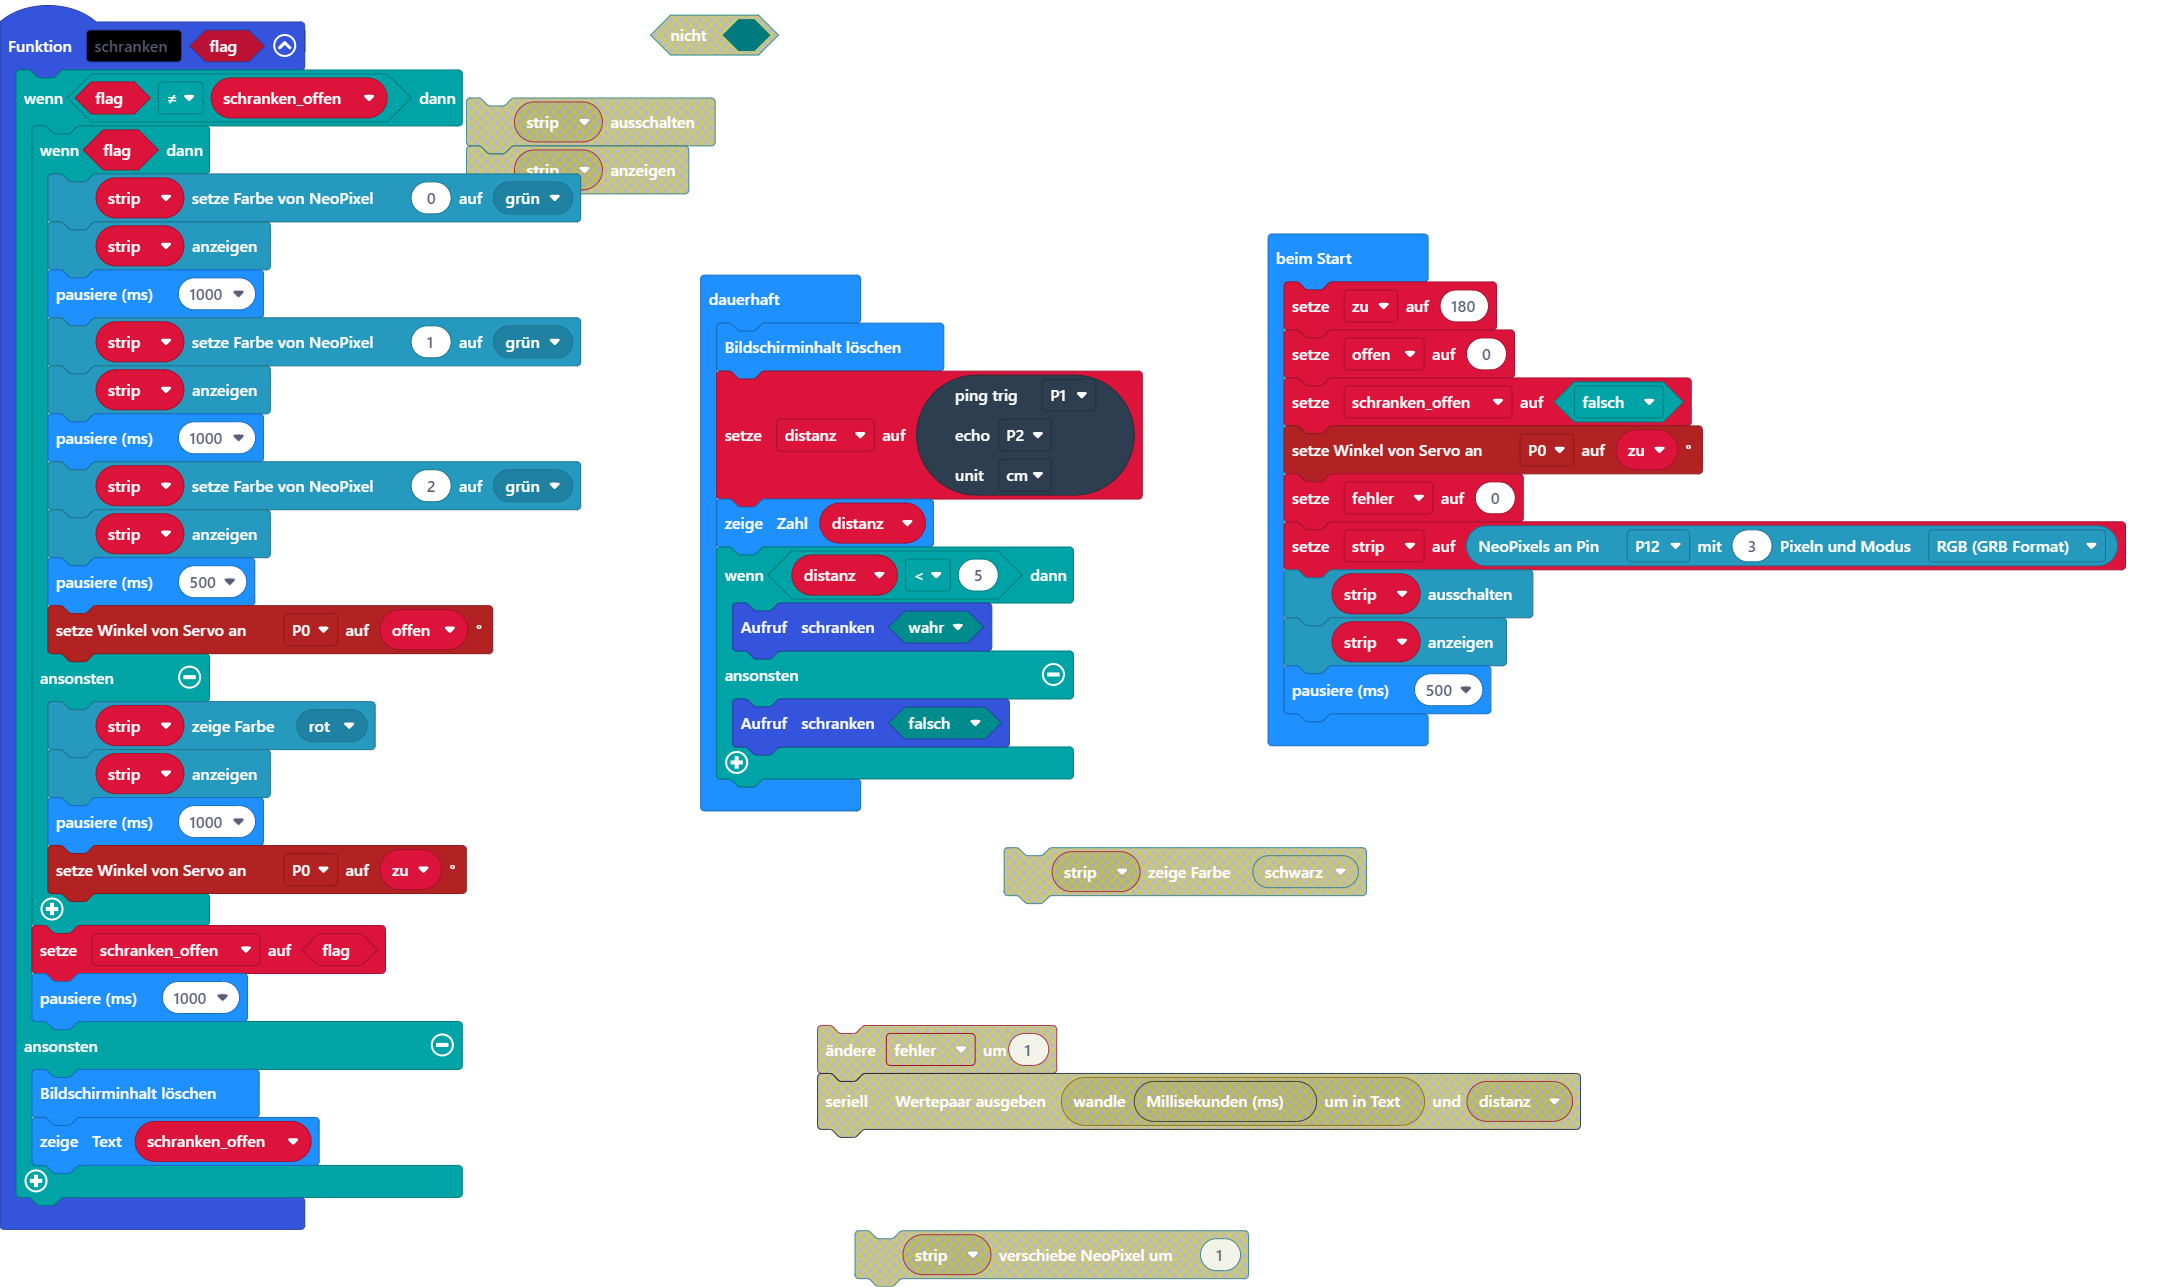
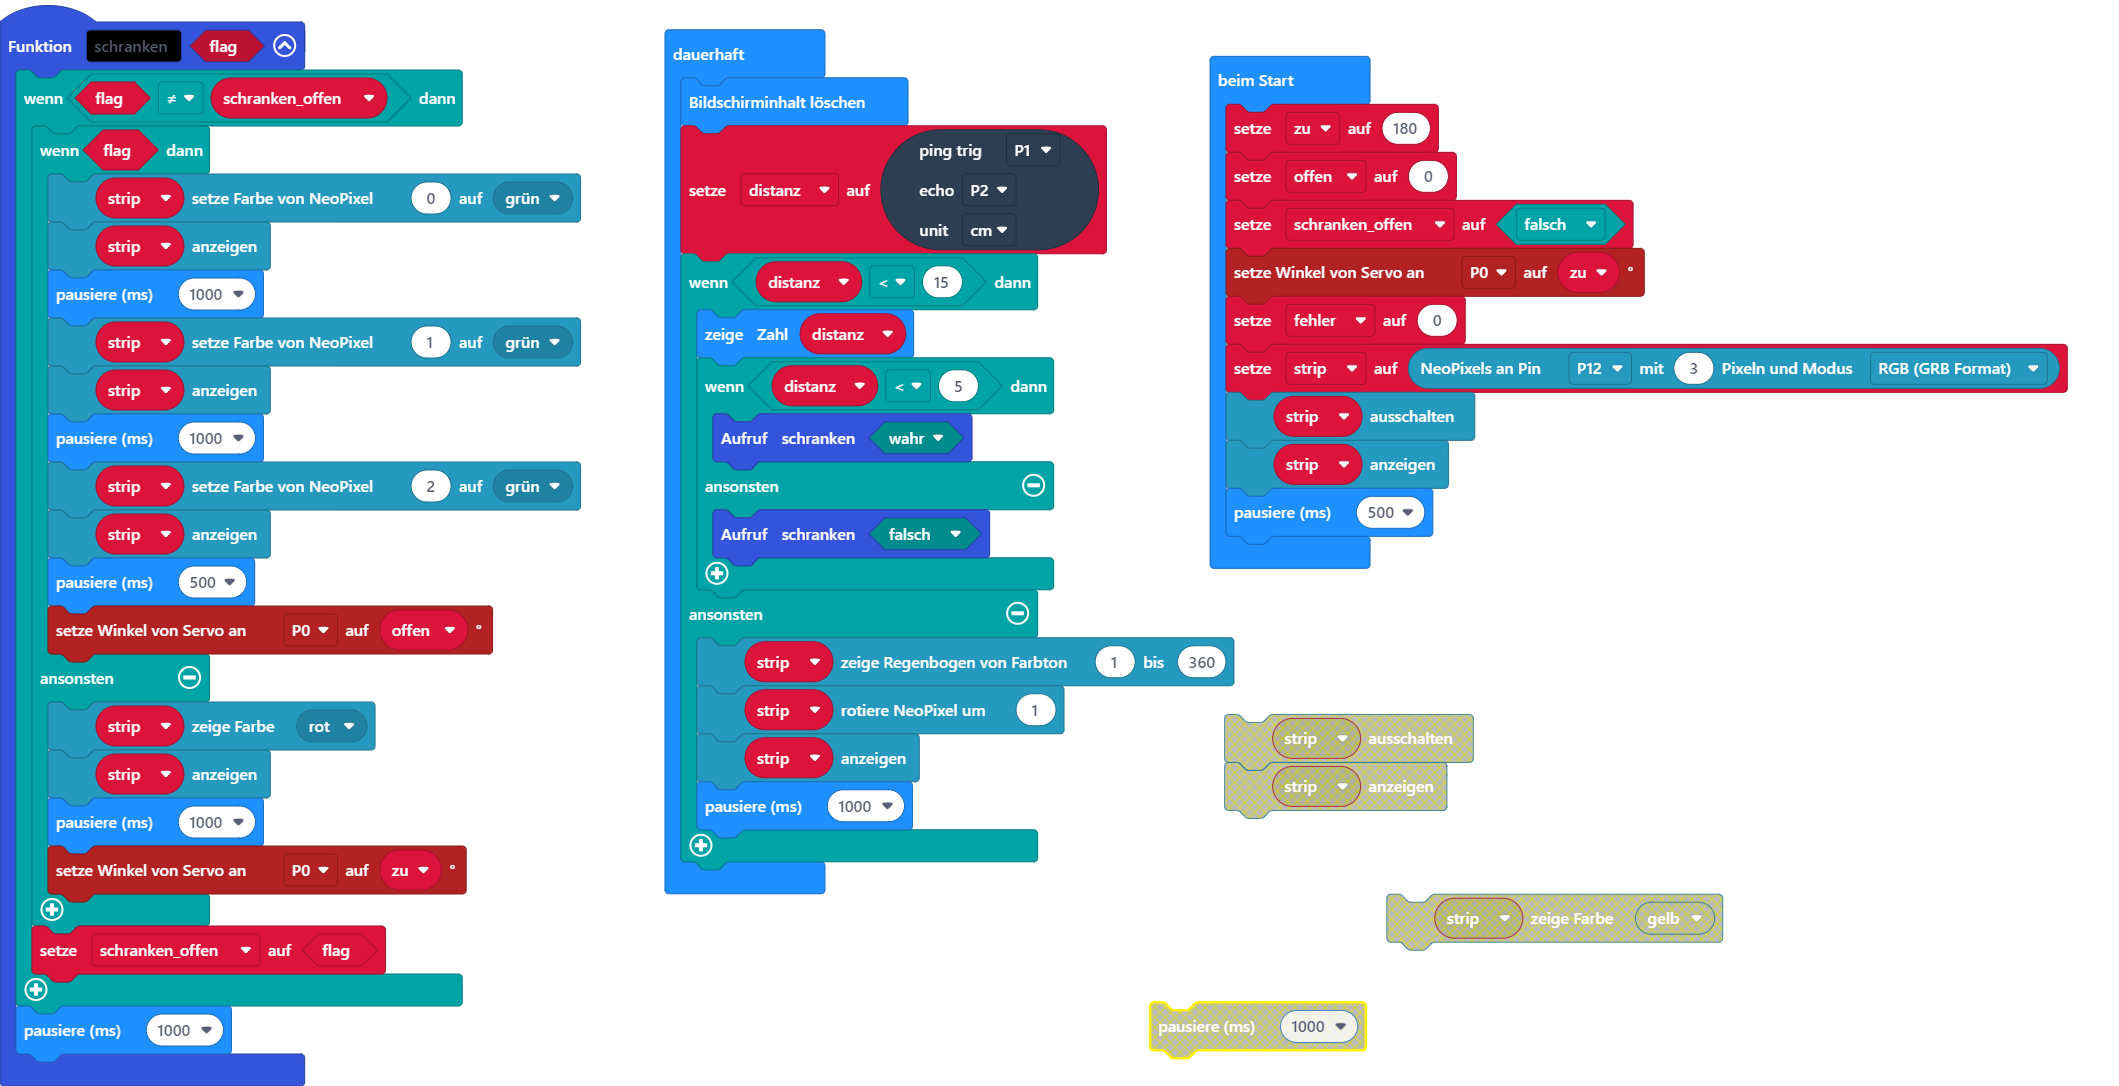
Aktualisiere main.blocks, main.ts

diff --git a/main.ts b/main.ts
@@ -18,11 +18,8 @@ function schranken (flag: boolean) {
             pins.servoWritePin(AnalogPin.P0, zu)
         }
         schranken_offen = flag
-        basic.pause(1000)
-    } else {
-        basic.clearScreen()
-        basic.showString("" + (schranken_offen))
     }
+    basic.pause(1000)
 }
 let distanz = 0
 let strip: neopixel.Strip = null
@@ -45,10 +42,17 @@ basic.forever(function () {
     DigitalPin.P2,
     PingUnit.Centimeters
     )
-    basic.showNumber(distanz)
-    if (distanz < 5) {
-        schranken(true)
+    if (distanz < 15) {
+        basic.showNumber(distanz)
+        if (distanz < 5) {
+            schranken(true)
+        } else {
+            schranken(false)
+        }
     } else {
-        schranken(false)
+        strip.showRainbow(1, 360)
+        strip.rotate(1)
+        strip.show()
+        basic.pause(1000)
     }
 })
